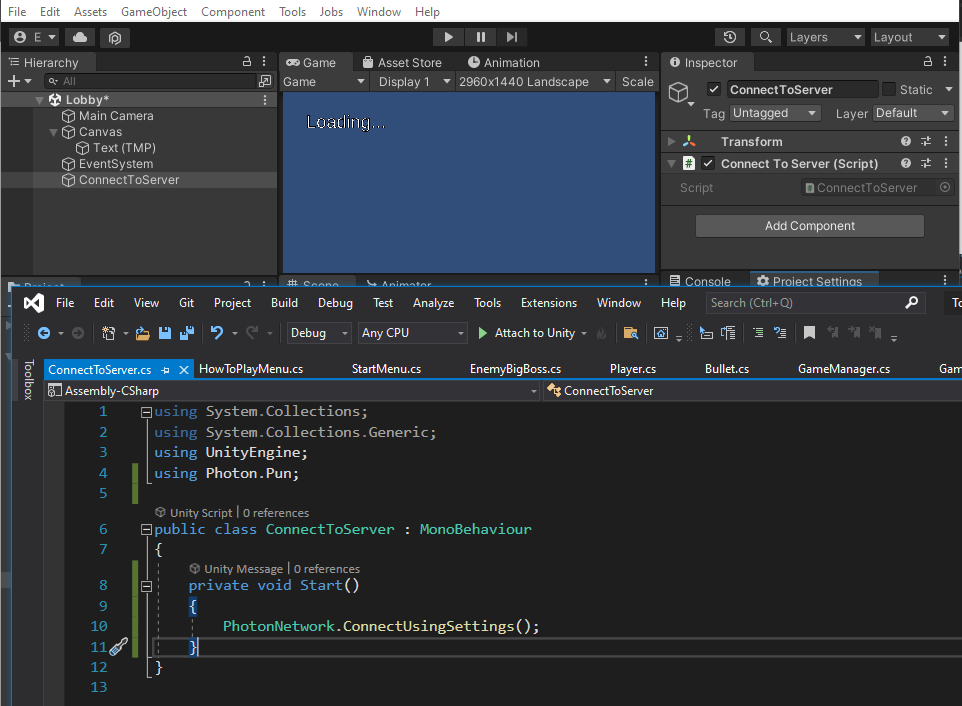
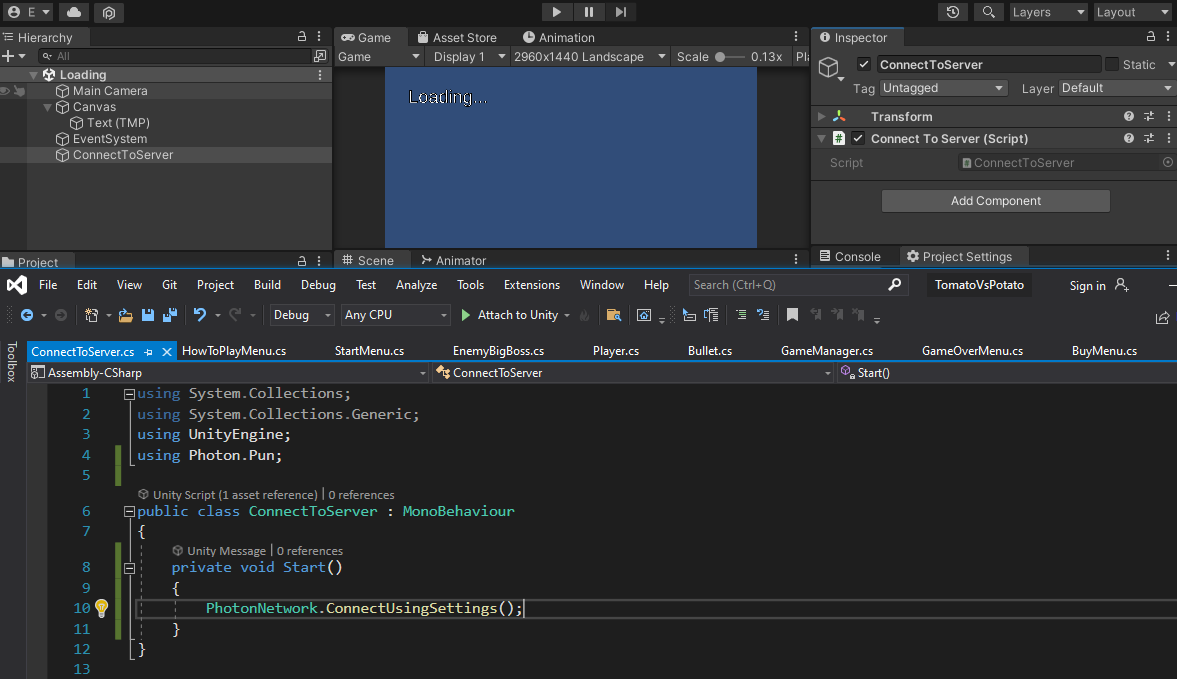
Change photon3 image because the "lobby" scene is supposed to be the loading scene. The loading will transition into lobby scene

Changed region(s): [[0.0, 0.0, 1.0, 1.0]]

diff --git a/blogfirstandroidgame4.html b/blogfirstandroidgame4.html
@@ -41,7 +41,7 @@
                     <img class="diarypostimage" src="images_videos/blog/FirstAndroidGame/photon1.PNG" slot="action2image">
                     <span slot ="action3text">I then imported the Photon unity asset called PUN 2 free<a href="https://assetstore.unity.com/packages/tools/network/pun-2-free-119922">here</a></span>
                     <img class="diarypostimage" src="images_videos/blog/FirstAndroidGame/photon2.PNG" slot="action3image">
-                    <span slot ="action4text">I created a new scene and named it Lobby with a Loading text. I created an empty gameobject called "ConnectToServer" and attached a script called "ConnectToServer" that calls PhotonNetwork.ConnectUsingSettings()</span>
+                    <span slot ="action4text">I created a new scene and named it Loading with a Loading text. I created an empty gameobject called "ConnectToServer" and attached a script called "ConnectToServer" that calls PhotonNetwork.ConnectUsingSettings()</span>
                     <img class="diarypostimage" src="images_videos/blog/FirstAndroidGame/photon3.PNG" slot="action4image">
                     <span slot ="action5text">3) No one knew that after clicking a weapon button, then clicking the select button, they needed to select the "x" button to close the window. They all assumed the "select" button was the close button. I should change it so the "select" button is the close button.</span>
                     <img class="diarypostimage" src="images_videos/blog/FirstAndroidGame/whatyoubuymenuselectclose.PNG" slot="action5image">
